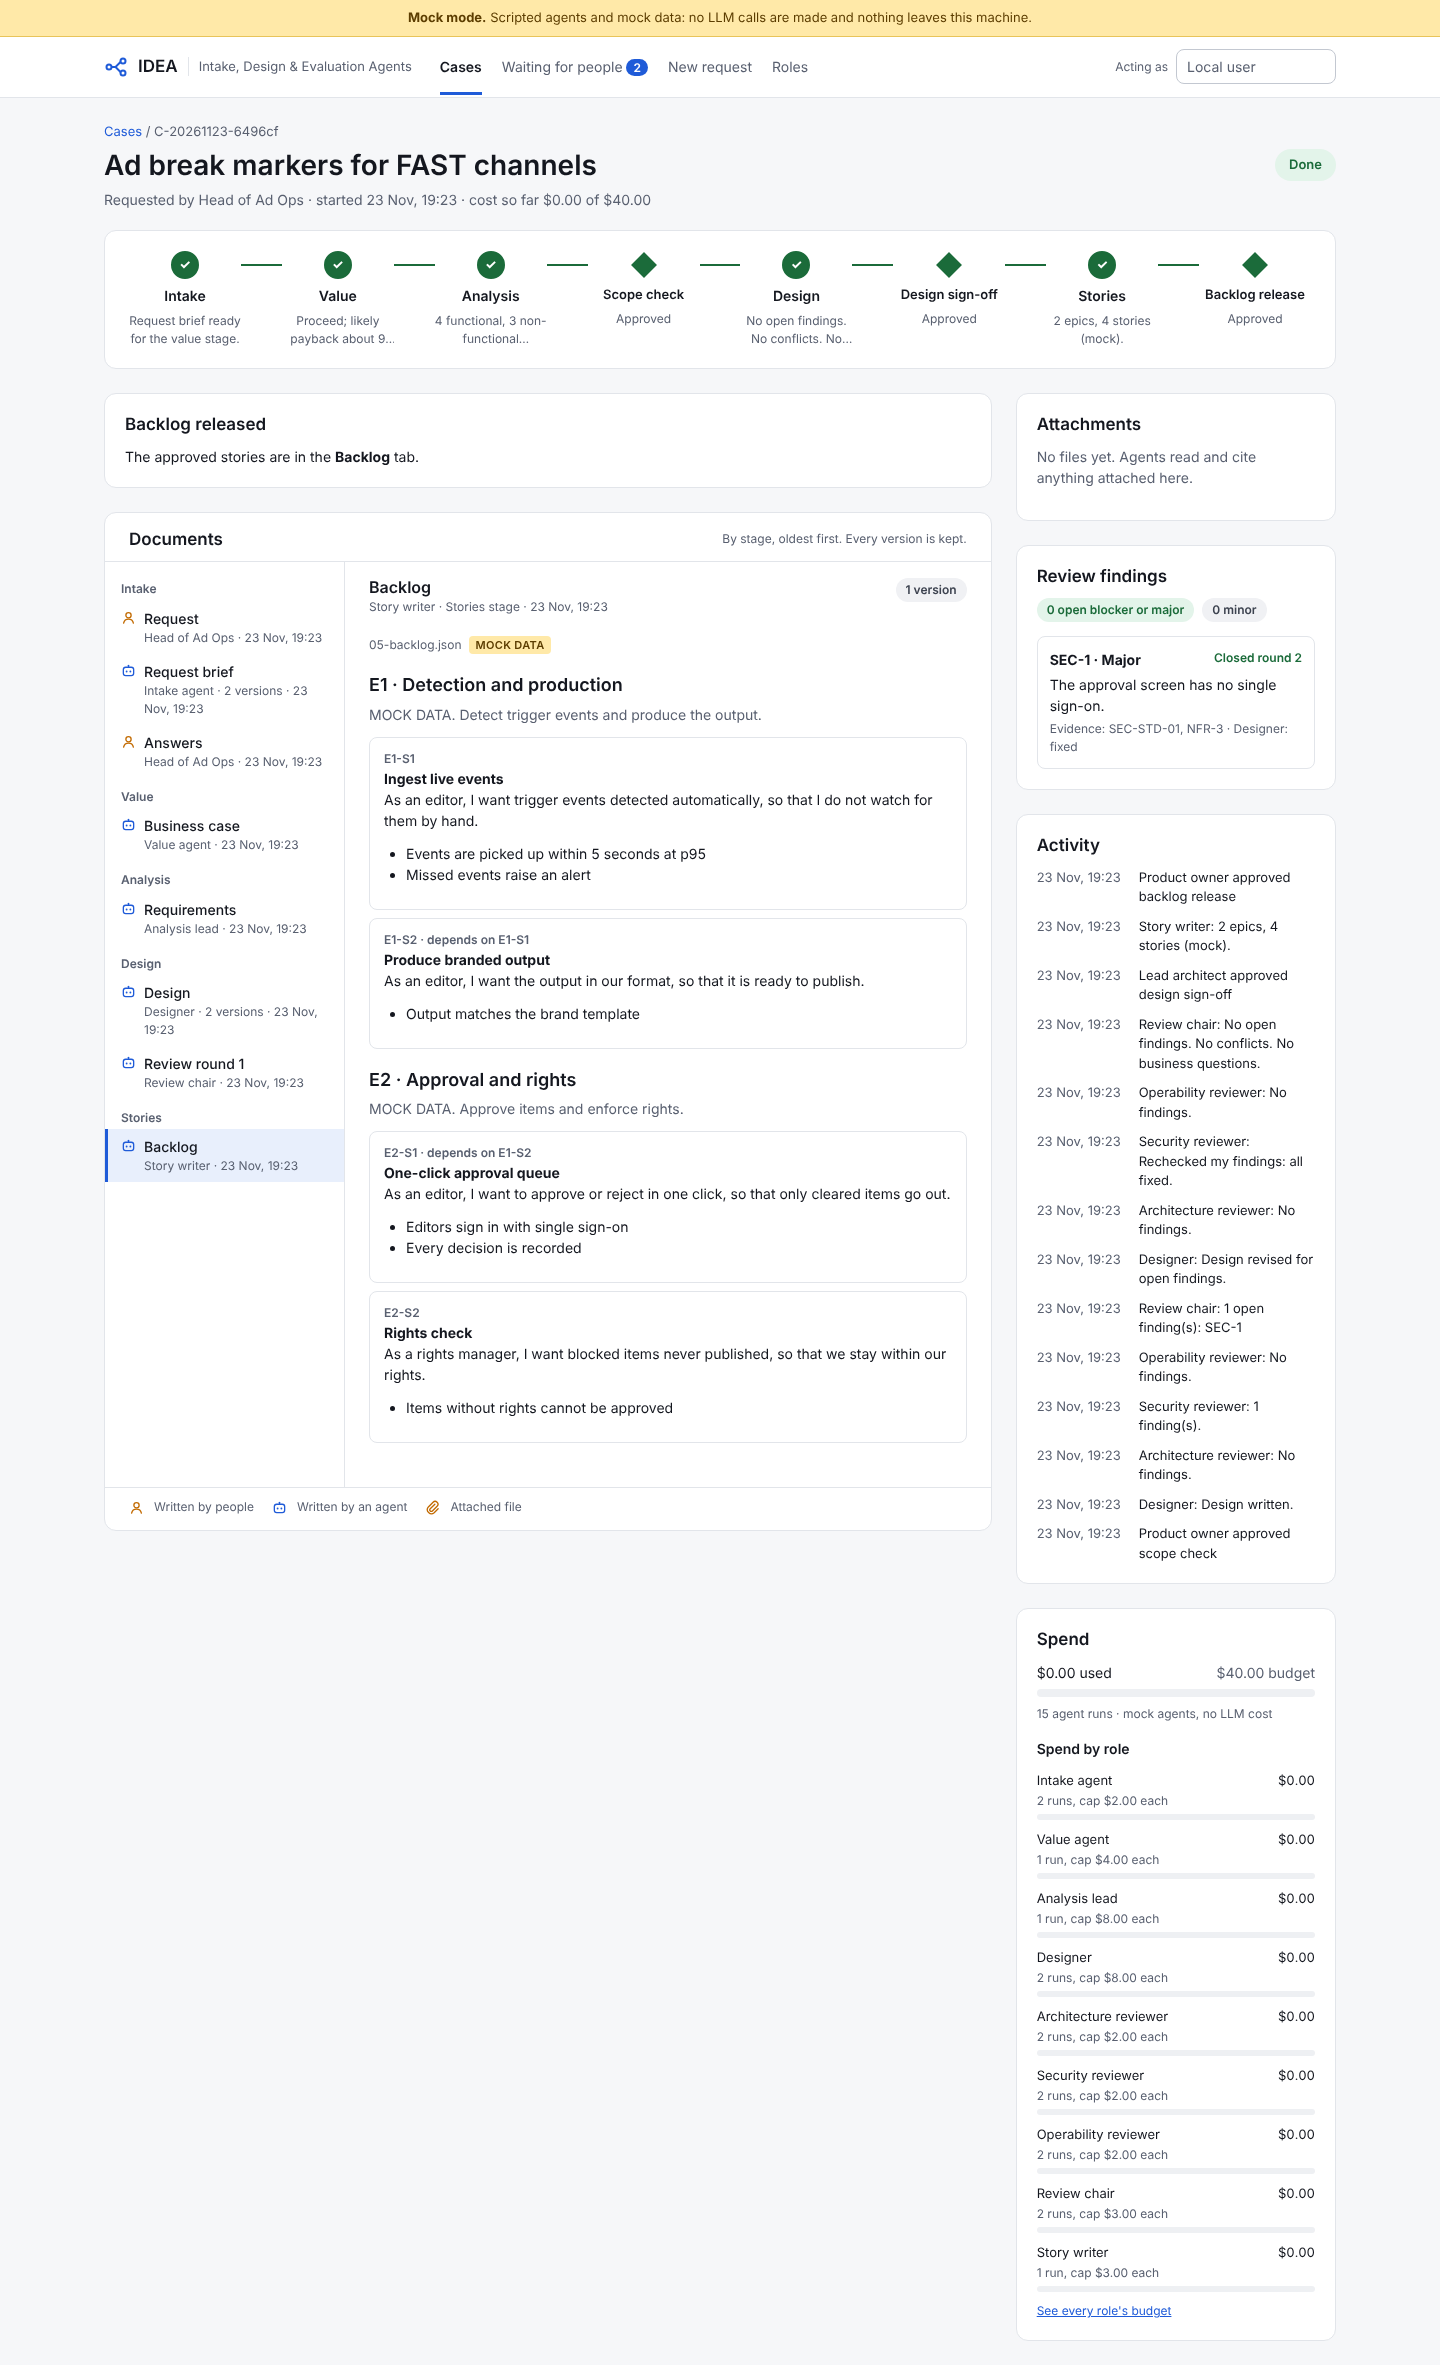
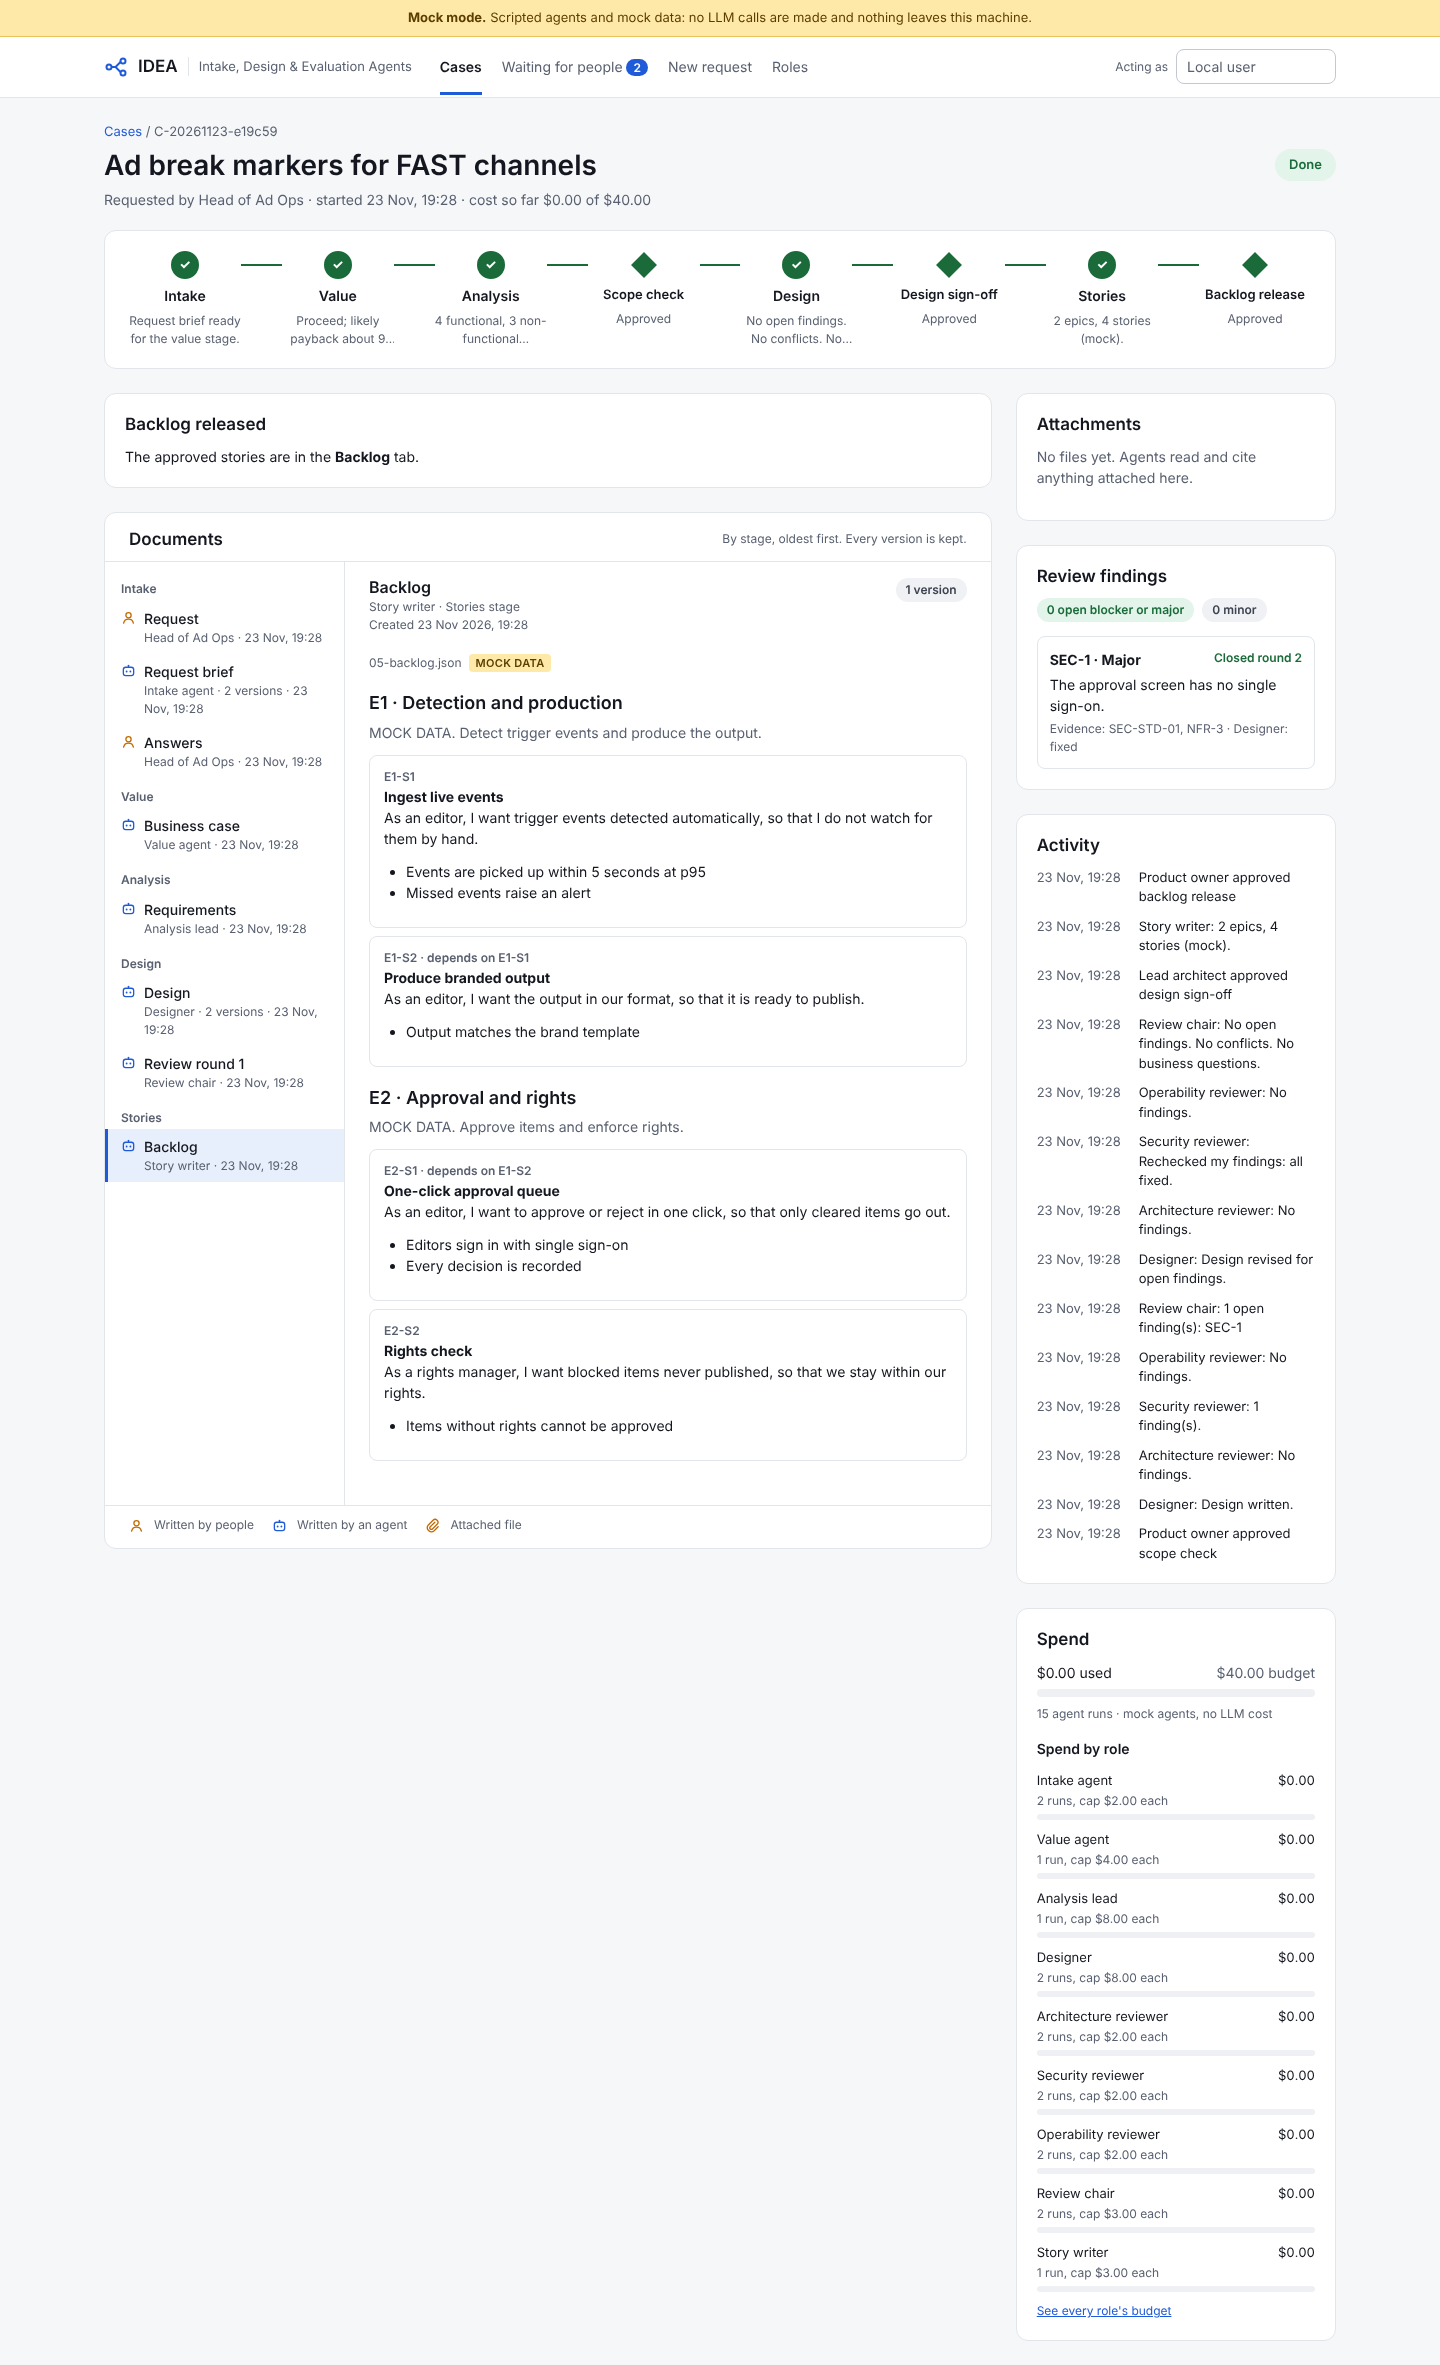
Show when each document was created and last updated
- The document viewer header shows "Created" and, when there is a later
  version, "Updated", each with the date, year and time
- Documents from before dates were recorded say so instead of showing nothing
- Screenshots retaken

Claude-Session: https://claude.ai/code/session_01A39yPchGPuJA5y18nPR4eV

Changed region(s): [[0.0938, 0.2469, 0.6562, 0.6482]]

diff --git a/portal/app.js b/portal/app.js
@@ -36,6 +36,12 @@
     if (isNaN(d)) { return ''; }
     return d.toLocaleString('en-GB', { day: 'numeric', month: 'short', hour: '2-digit', minute: '2-digit' });
   }
+  function fmtDate(iso) {  // with the year, for created and updated dates
+    if (!iso) { return ''; }
+    var d = new Date(iso);
+    if (isNaN(d)) { return ''; }
+    return d.toLocaleString('en-GB', { day: 'numeric', month: 'short', year: 'numeric', hour: '2-digit', minute: '2-digit' });
+  }
   function age(iso) {
     var mins = Math.max(0, Math.round((Date.now() - new Date(iso).getTime()) / 60000));
     if (mins < 60) { return mins + ' min'; }
@@ -614,8 +620,11 @@
     });
     var it = docItems[name] || {};
     var stage = ((d_groups || []).find(function (g) { return g.items.indexOf(it) >= 0; }) || {}).label;
+    var dates = it.at ? '<div class="muted small">Created <time datetime="' + esc(it.at) + '">' + esc(fmtDate(it.at)) + '</time>' +
+      (it.updated_at && it.updated_at !== it.at ? ' · Updated <time datetime="' + esc(it.updated_at) + '">' + esc(fmtDate(it.updated_at)) + '</time>' : '') + '</div>'
+      : '<div class="muted small">Date not recorded (created before IDEA kept document dates)</div>';
     document.getElementById('doc-head').innerHTML = it.label ? '<div><h3>' + esc(it.label) + '</h3><div class="muted small">' +
-      esc([it.by, stage ? stage + ' stage' : '', it.updated_at ? fmtTime(it.updated_at) : ''].filter(Boolean).join(' · ')) + '</div></div>' +
+      esc([it.by, stage ? stage + ' stage' : ''].filter(Boolean).join(' · ')) + '</div>' + dates + '</div>' +
       (it.versions ? '<span class="pill grey">' + (it.versions > 1 ? 'Latest of ' + it.versions + ' versions' : '1 version') + '</span>' : '') : '';
     body.innerHTML = '<p class="muted">Loading…</p>';
     try {
